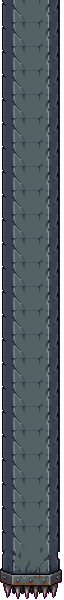
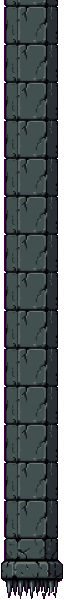
Swap in flat side-view crate, levers, platform and crusher
Claude-Session: https://claude.ai/code/session_01EUFgS3ohfaNJMGGEJbpa8S

diff --git a/src/scenes/GameScene.ts b/src/scenes/GameScene.ts
@@ -141,7 +141,7 @@ export class GameScene extends Phaser.Scene {
     for (const m of L.movers) {
       const s = this.physics.add.sprite(m.x * TILE + 48, 0, 'mplat');
       s.y = m.y * TILE + s.height / 2;
-      (s.body as Body).setAllowGravity(false).setImmovable(true).setSize(s.width, 16, false).setOffset(0, 0);
+      (s.body as Body).setAllowGravity(false).setImmovable(true).setSize(s.width, s.height, false).setOffset(0, 0);
       this.movers.push({ s, min: m.min * TILE + 48, max: (m.max + 1) * TILE - 48, speed: m.speed, dir: 1 });
     }
 

diff --git a/tools/process_art.py b/tools/process_art.py
@@ -190,3 +190,24 @@ for i, (x0, y0, x1, y1) in enumerate(coin_boxes):
 save(fit(ic.crop((324, 320, 704, 688)), h=18), 'star')
 save(fit(ic.crop((44, 732, 324, 984)), 16, 14), 'heart')
 save(fit(ic.crop((704, 732, 984, 984)), 16, 14), 'heart_empty')
+
+# ---------- flat side-view objects (second batch, replaces the 3D-looking ones) ----------
+if (SRC / 'objects-flat.png').exists():
+    src = load('objects-flat.png')
+    patch(src, (1255, 615, 1325, 690), -90)
+    flat = key_magenta(src)
+    save(fit(flat.crop((48, 48, 360, 360)), 32, 32), 'crate')
+    save(fit(flat.crop((424, 84, 652, 360)), h=32), 'lever_off')
+    save(fit(flat.crop((760, 84, 988, 360)), h=32), 'lever_on')
+    save(shrink(flat.crop((48, 548, 1000, 624)), (96, 12)), 'mplat')
+    # Pillar: spiked bottom (cap + spikes) with stone blocks repeated up to 600px.
+    k = 64 / 300
+    bottom = shrink(flat.crop((1064, 430, 1364, 724)), (64, round(294 * k)))
+    unit = shrink(flat.crop((1064, 250, 1364, 430)), (64, round(180 * k)))
+    tall = Image.new('RGBA', (64, 600), (0, 0, 0, 0))
+    y = 600 - bottom.height
+    tall.paste(bottom, (0, y))
+    while y > 0:
+        y -= unit.height
+        tall.paste(unit, (0, y))
+    save(tall, 'crusher')
